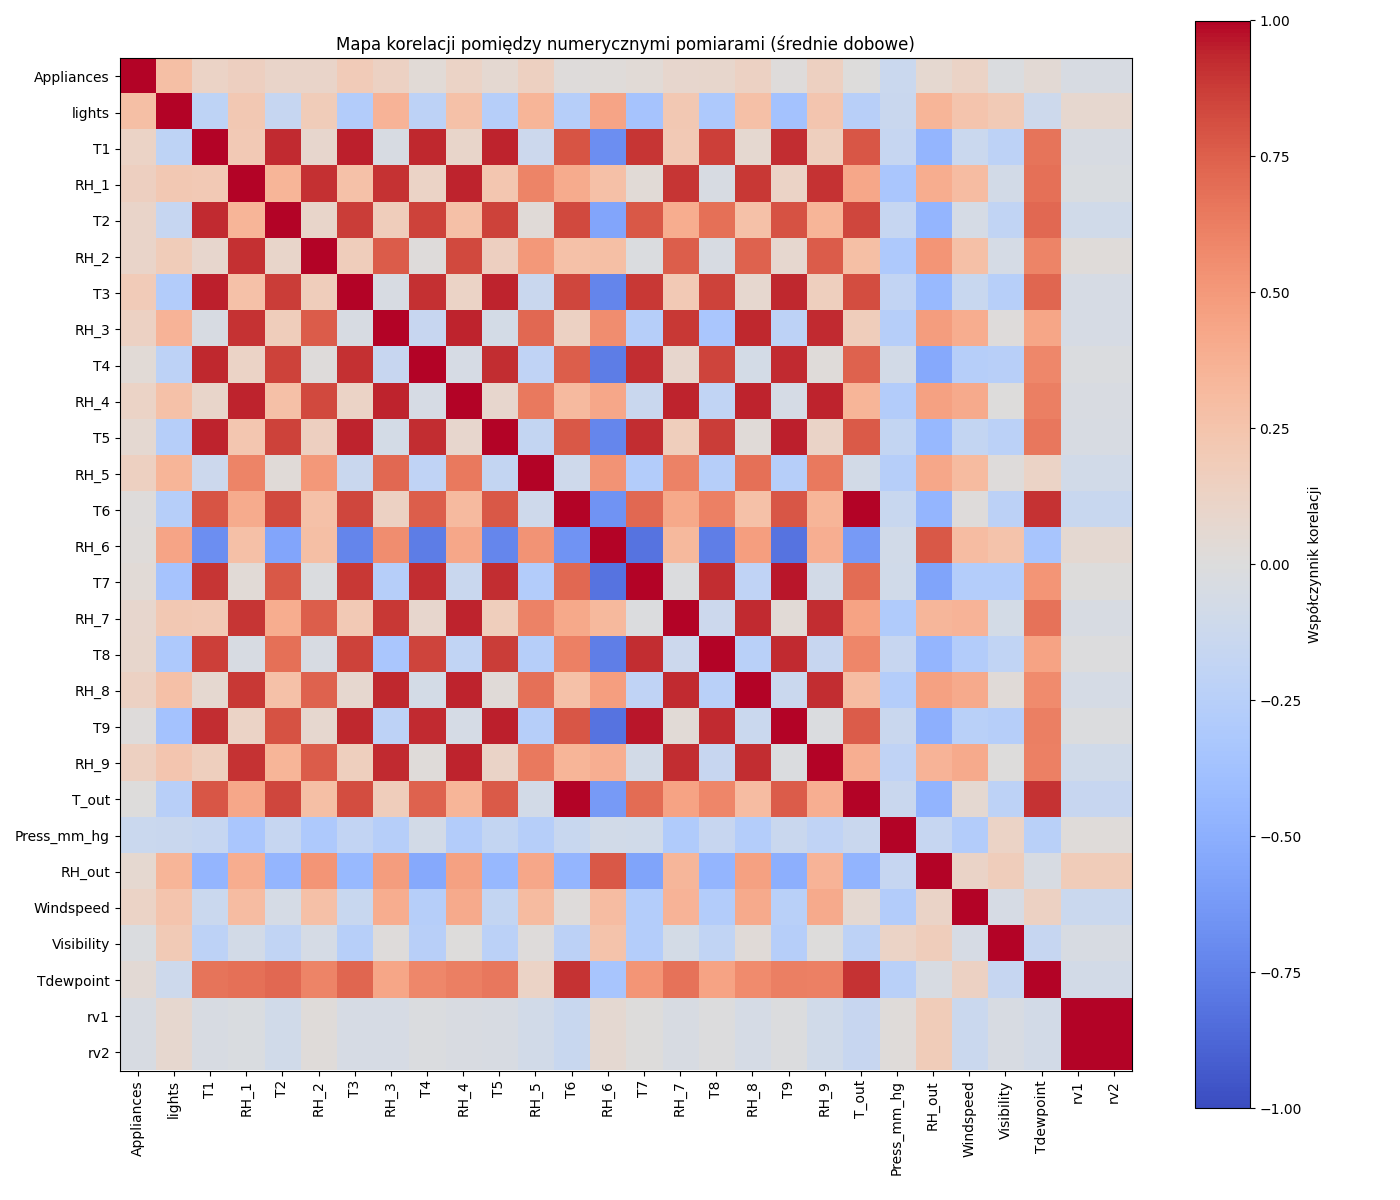
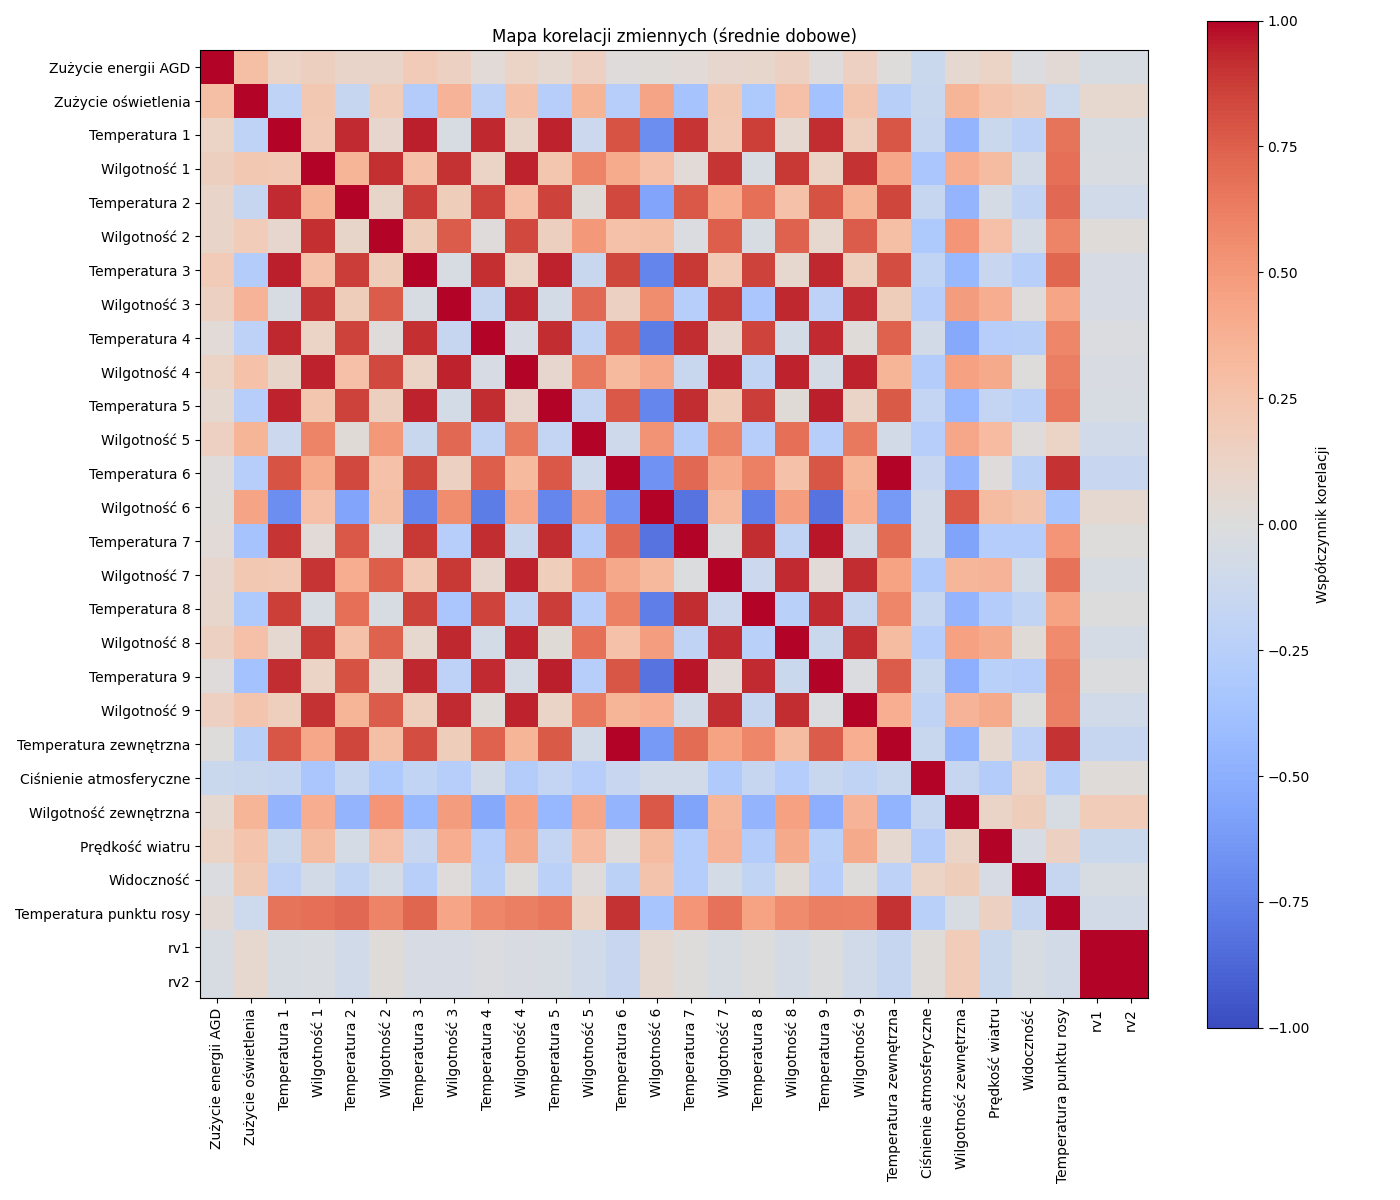
Poprawienie wykresow i przetlumaczenieumaczenie danych i dodanie jednostek

diff --git a/student/mod2/skrypt.py b/student/mod2/skrypt.py
@@ -19,47 +19,123 @@ try:
     hourly_mean = df.set_index('date').groupby(df['date'].dt.hour).mean()
     correlation = daily_mean.corr()
 
-    selected = [col for col in ['Appliances', 'lights', 'T_out', 'RH_out'] if col in daily_mean.columns]
-    if selected:
+    translations = {
+        'Appliances': 'Zużycie energii AGD',
+        'lights': 'Zużycie oświetlenia',
+        'T1': 'Temperatura 1',
+        'RH_1': 'Wilgotność 1',
+        'T2': 'Temperatura 2',
+        'RH_2': 'Wilgotność 2',
+        'T3': 'Temperatura 3',
+        'RH_3': 'Wilgotność 3',
+        'T4': 'Temperatura 4',
+        'RH_4': 'Wilgotność 4',
+        'T5': 'Temperatura 5',
+        'RH_5': 'Wilgotność 5',
+        'T6': 'Temperatura 6',
+        'RH_6': 'Wilgotność 6',
+        'T7': 'Temperatura 7',
+        'RH_7': 'Wilgotność 7',
+        'T8': 'Temperatura 8',
+        'RH_8': 'Wilgotność 8',
+        'T9': 'Temperatura 9',
+        'RH_9': 'Wilgotność 9',
+        'T_out': 'Temperatura zewnętrzna',
+        'Press_mm_hg': 'Ciśnienie atmosferyczne',
+        'RH_out': 'Wilgotność zewnętrzna',
+        'Windspeed': 'Prędkość wiatru',
+        'Visibility': 'Widoczność',
+        'Tdewpoint': 'Temperatura punktu rosy'
+    }
+    units = {
+        'Appliances': 'Wh',
+        'lights': 'Wh',
+        'T1': '°C',
+        'RH_1': '%',
+        'T2': '°C',
+        'RH_2': '%',
+        'T3': '°C',
+        'RH_3': '%',
+        'T4': '°C',
+        'RH_4': '%',
+        'T5': '°C',
+        'RH_5': '%',
+        'T6': '°C',
+        'RH_6': '%',
+        'T7': '°C',
+        'RH_7': '%',
+        'T8': '°C',
+        'RH_8': '%',
+        'T9': '°C',
+        'RH_9': '%',
+        'T_out': '°C',
+        'Press_mm_hg': 'mm Hg',
+        'RH_out': '%',
+        'Windspeed': 'm/s',
+        'Visibility': 'km',
+        'Tdewpoint': '°C'
+    }
+
+    unit_groups = {}
+    for col, unit in units.items():
+        if col in daily_mean.columns:
+            unit_groups.setdefault(unit, []).append(col)
+
+    filenames = []
+    for unit, cols in sorted(unit_groups.items()):
+        if not cols:
+            continue
         plt.figure(figsize=(12, 6))
-        for col in selected:
-            plt.plot(daily_mean.index, daily_mean[col], label=col)
-        plt.title('Średnie dobowe: Appliances, lights, T_out, RH_out')
+        for col in cols:
+            label = translations.get(col, col)
+            plt.plot(daily_mean.index, daily_mean[col], label=label)
+        unit_label = unit if unit != 'brak jednostki' else ''
+        plt.title(f'Średnie dobowe dla jednostki: {unit_label}'.strip())
         plt.xlabel('Data')
-        plt.ylabel('Wartość średnia')
+        plt.ylabel(f'Średnia wartość{f" ({unit})" if unit_label else ""}')
         plt.legend()
         plt.grid(True)
         plt.tight_layout()
-        plt.savefig('agregacja_dobowa.png')
+        safe_unit = unit.replace('°', 'deg').replace('%', 'pct').replace(' ', '_').replace('/', '_')
+        filename = f'agregacja_dobowa_{safe_unit}.png'
+        plt.savefig(filename)
         plt.close()
+        filenames.append(filename)
 
     if 'Appliances' in daily_mean.columns:
         plt.figure(figsize=(10, 5))
         plt.hist(daily_mean['Appliances'].dropna(), bins=30, color='orange', edgecolor='black')
-        plt.title('Histogram średniego zużycia Appliances (dobowego)')
-        plt.xlabel('Średnie dobowe Appliances')
+        plt.title('Histogram średniego zużycia energii AGD (dobowego)')
+        plt.xlabel('Średnie dobowe zużycie energii AGD (Wh)')
         plt.ylabel('Liczba dni')
         plt.tight_layout()
-        plt.savefig('histogram_appliances.png')
+        plt.savefig('histogram_zuzycie_agd.png')
         plt.close()
+        filenames.append('histogram_zuzycie_agd.png')
+
+    generated_files = ', '.join(filenames)
+    if not generated_files:
+        generated_files = 'Brak wygenerowanych wykresów agregacyjnych.'
 
     if not correlation.empty:
         plt.figure(figsize=(14, 12))
         plt.imshow(correlation, cmap='coolwarm', vmin=-1, vmax=1)
         plt.colorbar(label='Współczynnik korelacji')
         ticks = np.arange(len(correlation.columns))
-        plt.xticks(ticks, correlation.columns, rotation=90)
-        plt.yticks(ticks, correlation.columns)
-        plt.title('Mapa korelacji pomiędzy numerycznymi pomiarami (średnie dobowe)')
+        labels = [translations.get(col, col) for col in correlation.columns]
+        plt.xticks(ticks, labels, rotation=90)
+        plt.yticks(ticks, labels)
+        plt.title('Mapa korelacji zmiennych (średnie dobowe)')
         plt.tight_layout()
         plt.savefig('heatmap_korelacji.png')
         plt.close()
+        generated_files = f'{generated_files}, heatmap_korelacji.png' if filenames else 'heatmap_korelacji.png'
 
     daily_mean.to_csv('daily_mean.csv')
     hourly_mean.to_csv('hourly_mean.csv')
     correlation.to_csv('correlation_daily_mean.csv')
 
-    print('Wykresy zostały wygenerowane: agregacja_dobowa.png, histogram_appliances.png, heatmap_korelacji.png')
+    print(f'Wygenerowane pliki: {generated_files}')
     print('Dodatkowe pliki: daily_mean.csv, hourly_mean.csv, correlation_daily_mean.csv')
 
 except FileNotFoundError: